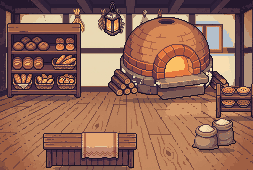
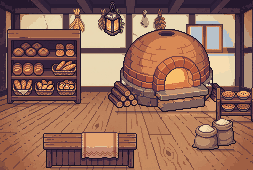
Painted village map, painted villagers, grounded bakery furniture
- The village map draws painted art when it has loaded: generated terrain
  traced from the game's own geometry (paths, pond, stream, yard, meadow;
  aligned within a pixel or two), with kit buildings (her home, post office,
  bakery, workshop, notice board, pie stall, dock) and nature pieces (apple
  and round trees, bushes, rocks, reeds, crates, barrel) placed where the
  drawn ones stand and depth-sorted so she walks behind them. Pieces are
  shrunk by whole factors only (no resampling blur).
- Her, Rosa, Bea, Mo, Mr. Pip and Tom are painted sprites on the map (hers in
  her avatar's colours, flipping and stepping as she walks); Dot too.
- The bridge planks, the meadow fence and her yard items stay drawn in code.
- The bakery's furniture stands on the floor with contact shadows.

Claude-Session: https://claude.ai/code/session_018EatS8EEd6jpQM1S16gyDn

diff --git a/village.js b/village.js
@@ -161,7 +161,33 @@
   // =====================================================================
   // the village map
   // =====================================================================
+  // the painted map: generated terrain (traced from the game's own paths, pond, stream and yard) and kit pieces placed
+  // where the drawn ones stand, depth-sorted so she walks behind them; the bridge planks and her yard stay in code
+  function buildPaintedMap(g, k, opt) {
+    const v = V(), open = !!v.open.meadow, I = n => ART['map-' + n];
+    g.drawImage(I('terrain'), 0, 0);
+    const piece = (n, cx, base, shade = true) => { const im = I(n); k.add(base, () => { if (shade) k.shadowEll(cx + 1, base, Math.max(3, Math.round(im.width * .4)), 2); k.g.drawImage(im, Math.round(cx - im.width / 2), base - im.height); }); };
+    piece('home', 246, 113); piece('post', 130, 103); piece('bakery', 140, 47); piece('workshop', 182, 79); piece('board', 187, 111); piece('stall', 274, 168); piece('dock', 121, 148, false);
+    // Rosa's orchard, then the village's other trees (every fifth one bears apples), bushes, rocks and reeds
+    [[24, 67], [48, 63], [72, 67], [34, 93], [58, 91]].forEach(([x, y], i) => piece(i % 2 ? 'tree-apple2' : 'tree-apple1', x, y));
+    const TREES = ['tree-round', 'tree-dark', 'tree-slim', 'tree-round', 'tree-dark'];
+    [[10, 22], [28, 16], [46, 26], [66, 18], [86, 24], [106, 16], [176, 24], [8, 108], [290, 100], [290, 140], [116, 206], [20, 206], [196, 204], [262, 206]].forEach(([x, y], i) => piece(i % 5 === 2 ? 'tree-apple2' : TREES[i % TREES.length], x, y + 1));
+    [[206, 128], [130, 190], [222, 196]].forEach(([x, y], i) => piece(i % 2 ? 'bush' : 'bush-flower', x, y));
+    [[270, 120], [40, 196], [110, 198]].forEach(([x, y], i) => piece(i ? 'rock' : 'boulder', x, y));
+    if (!open) [[212, 18], [236, 12], [270, 30], [284, 14], [258, 22]].forEach(([x, y], i) => piece(i % 2 ? 'rock' : 'boulder', x, y));
+    [[18, 142], [112, 178], [100, 122]].forEach(([x, y]) => piece('reeds', x, y, false));
+    piece('crate-red', 90, 114); piece('crate-yellow', 70, 108); piece('barrel', 130, 138); piece('crate-red', 118, 139);
+    // the bridge: one plank for each make-10 fact that is hers
+    const laid = Math.min(PLANKS, opt.planks === undefined ? v.planks : opt.planks);
+    k.add(66, () => { const x = 241, y = 50; k.R(x - 1, y + 1, 2, 18, C.k1); k.R(x + 14, y + 1, 2, 18, C.k1); k.R(x - 1, y + 1, 1, 18, C.k2); k.R(x + 14, y + 1, 1, 18, C.k2);
+      for (let j = 0; j < PLANKS; j++) { if (j >= laid) continue; const yy = y + 2 + j * 2; k.R(x + 1, yy, 13, 2, j % 2 ? C.k2 : C.k3); k.P(x + 1 + (j * 5) % 11, yy, C.k4); k.R(x + 1, yy + 1, 13, 1, C.k1); } }, false);
+    if (open) { const a = MEADOW, x0 = a.x - 4, y0 = a.y - 3, x1 = a.x + a.cols * 16 + 2, y1 = a.y + a.rows * 16 + 4; k.fence(x0, y0, x1, y0); k.fence(x0, y1, x1, y1); k.fence(x0, y0, x0, y1); k.fence(x1, y0, x1, y1); }
+    for (const p of v.placed) { if (p.area === 'meadow' && !open) continue; if (opt.skip && opt.skip.includes(p)) continue; const a = area(p.area), x = a.x + p.cx * 16, y = a.y + p.cy * 16; k.add(y + 15, () => px.drawItem(k, p.item, x, y, p.paint)); }
+    const pts = []; for (let i = 0; i < 70; i++) { const an = px.hash(i, 5, 61) * Math.PI * 2, r = Math.sqrt(px.hash(i, 6, 62)) * .8; const x = Math.round(POND[0] + Math.cos(an) * POND[2] * r), y = Math.round(POND[1] + Math.sin(an) * POND[3] * r); if (!inRect(x, y, [DOCK[0] - 2, DOCK[1] - 2, DOCK[2] + 4, DOCK[3] + 10])) pts.push([x, y]); }
+    return pts;
+  }
   function buildMapStill(g, k, opt = {}) {
+    if (mapArtReady) return buildPaintedMap(g, k, opt);
     const v = V(), open = !!v.open.meadow;
     const water = (x, y) => px.inEll(x, y, ...POND) || inStream(x, y);
     const path = (x, y) => PATHS.some(r => { const n = px.hash(x >> 1, y >> 1, 3) < .35 ? 1 : 0; return inRect(x, y, [r[0] - n, r[1] - n, r[2] + 2 * n, r[3] + 2 * n]); });
@@ -245,7 +271,7 @@
     const sel = B.sel && placedAt(B.sel);
     ui.primaryJob = undefined;
     $root.innerHTML = `<main class="village full ${build ? 'building' : ''} ${ui.story ? 'story' : ''}">
-      <div class="vstage" id="vstage"><canvas id="vcanvas"></canvas><div class="vhaze"></div>
+      <div class="vstage" id="vstage"><canvas id="vcanvas"></canvas><div class="vhaze ${mapArtReady ? 'off' : ''}"></div>
         <div class="vbubble" id="vbubble"></div>
         <div class="vmark" id="vmark">!</div>
       </div>
@@ -255,7 +281,7 @@
       <div class="vfade" id="vfade"></div>
     </main>`;
     fit();
-    if (!scene || scene.kind !== 'map' || ui.rebuildMap) { scene = makeScene('map', (g, k) => buildMapStill(g, k, { planks: v.planks, skip: ui.popping ? ui.popping.map(p => p.p) : [] })); ui.rebuildMap = false; addGlows(scene, [[240, 99, 7, 'rgba(255,180,90,.22)'], [259, 99, 7, 'rgba(255,180,90,.22)']]); }
+    if (!scene || scene.kind !== 'map' || ui.rebuildMap) { scene = makeScene('map', (g, k) => buildMapStill(g, k, { planks: v.planks, skip: ui.popping ? ui.popping.map(p => p.p) : [] })); scene.painted = mapArtReady; ui.rebuildMap = false; addGlows(scene, [[240, 99, 7, 'rgba(255,180,90,.22)'], [259, 99, 7, 'rgba(255,180,90,.22)']]); }
     scene.after = mapOverlays;
     hookMapInput();
     startLoop(drawMap);
@@ -340,6 +366,15 @@
     const items = [];
     const walking = her.path.length > 0, wf = walking ? [0, 1, 0, 3][Math.floor(her.walkT / .11) % 4] : 0;
     const hop = her.hop > t ? Math.round(Math.sin((her.hop - t) / 400 * Math.PI) * 4) : 0;
+    if (mapArtReady) {
+      const c = sc.frame.getContext('2d'), P = (im, cx, base, flip, bob) => { const x = Math.round(cx - im.width / 2), y = Math.round(base - im.height - bob);
+        if (flip) { c.save(); c.translate(x + im.width, y); c.scale(-1, 1); c.drawImage(im, 0, 0); c.restore(); } else c.drawImage(im, x, y); };
+      const step = walking ? Math.floor(her.walkT / .14) % 2 : 0, m = mission() || {}, wave = (period, off, on) => on && ((t + off) % period) < 1100 ? Math.floor(t / 180) % 2 : 0;
+      items.push({ y: her.y, box: [Math.round(her.x) - 2, Math.round(her.y) - 20, 13, 21], draw: () => { k.shadowEll(Math.round(her.x) + 4, Math.round(her.y), 5, 1); P(herArt('map-her'), Math.round(her.x) + 4, Math.round(her.y) + 1, her.flip, step + hop); } });
+      const npc = (n, [x, y], on, off) => items.push({ y, box: [x - 3, y - 20, 15, 21], draw: () => { k.shadowEll(x + 4, y, 5, 1); P(ART['map-' + n], x + 4, y + 1, false, wave(5600, off, on)); } });
+      npc('rosa', ROSA, m.text === 'Help Rosa pick apples', 0); npc('bea', BEA, m.job === 'bakery', 3300); npc('mo', MO, m.job === 'post', 2600); npc('pip', PIP, m.job === 'market', 1700);
+      if (placeOpen('workshop')) npc('tom', TOM, m.job === 'workshop', 2100);
+    } else {
     items.push({ y: her.y, box: [Math.round(her.x) - 1, Math.round(her.y) - 20, 11, 21], draw: () => { k.shadowEll(Math.round(her.x) + 4, Math.round(her.y), 4, 1); k.drawPerson(Math.round(her.x), Math.round(her.y), look(), { walk: wf, flip: her.flip, blink: !walking && (t % 3600) < 120, bob: hop, wave: her.wave > t }); } });
     // Rosa by her orchard, in her straw hat; she waves when helping her is the next job
     items.push({ y: ROSA[1], box: [ROSA[0] - 2, ROSA[1] - 19, 13, 20], draw: () => { const [x, y] = ROSA; k.shadowEll(x + 4, y, 4, 1); k.drawPerson(x, y, ROSA_LOOK, { blink: (t % 3900) < 120, wave: (t % 5200) < 1100 && (mission() || {}).text === 'Help Rosa pick apples' });
@@ -352,6 +387,7 @@
       k.R(x + 1, y - 16, 7, 2, '#6a5a4a'); k.R(x, y - 14, 9, 1, '#4a3e34'); k.R(x + 2, y - 9, 5, 2, '#9a5a2a'); } });
     items.push({ y: PIP[1], box: [PIP[0] - 2, PIP[1] - 17, 13, 18], draw: () => { const [x, y] = PIP; k.shadowEll(x + 4, y, 4, 1); k.drawPerson(x, y, PIP_LOOK, { flip: true, blink: ((t + 1700) % 4300) < 120, wave: (t % 5600) < 1100 && (mission() || {}).job === 'market' });
       k.R(x + 2, y - 10, 5, 2, '#e8e8f0'); k.P(x + 4, y - 8, '#e8e8f0'); } });
+    }
     // things she just built pop in
     (ui.popping || []).forEach(pp => { const a = Math.min(1, (t - pp.t0) / 380), s = a < .7 ? a / .7 * 1.15 : 1.15 - (a - .7) / .3 * .15, ar = area(pp.p.area), x = ar.x + pp.p.cx * 16, y = ar.y + pp.p.cy * 16;
       items.push({ y: y + 15, draw: () => { const c = pp.c || (pp.c = itemCanvas(pp.p.item, pp.p.paint)); const w = Math.max(1, Math.round(16 * s)); sc.frame.getContext('2d').drawImage(c, Math.round(x + 8 - w / 2), Math.round(y + 16 - w), w, w); } }); });
@@ -362,7 +398,7 @@
     // build mode: the spots
     if (mode === 'build') for (const id of ['plot', 'meadow']) { if (id === 'meadow' && !V().open.meadow) continue; const a = area(id); for (let cy = 0; cy < a.rows; cy++) for (let cx = 0; cx < a.cols; cx++) { const x = a.x + cx * 16, y = a.y + cy * 16, sel = B.sel && B.sel.area === id && B.sel.cx === cx && B.sel.cy === cy, col = sel ? '#ffe066' : 'rgba(255,255,255,.55)'; for (let i = 0; i < 16; i += 2) { k.R(x + i, y, 1, 1, col); k.R(x + i, y + 15, 1, 1, col); k.R(x, y + i, 1, 1, col); k.R(x + 15, y + i, 1, 1, col); } if (sel) { k.R(x, y, 16, 1, col); k.R(x, y + 15, 16, 1, col); k.R(x, y, 1, 16, col); k.R(x + 15, y, 1, 16, col); } } }
     if (B.drag && B.drag.at) px.drawItem(k, B.drag.p.item, Math.round(B.drag.at[0] - 8), Math.round(B.drag.at[1] - 12), B.drag.p.paint);
-    k.drawDot(Math.round(dot.x), Math.round(dot.y) + dy, t, blinkDot);
+    if (mapArtReady) { const im = ART['map-dot']; sc.frame.getContext('2d').drawImage(im, Math.round(dot.x - im.width / 2), Math.round(dot.y) + dy - Math.round(im.height / 2)); } else k.drawDot(Math.round(dot.x), Math.round(dot.y) + dy, t, blinkDot);
     clouds(k, t);
   }
   let backdropKey = '', backdropUrl = '';
@@ -770,16 +806,22 @@
   // ---------- painted art (exploration): generated with Weave from a style swatch, cleaned onto the scene's pixel grid,
   // and laid out here in code. The orchard uses it when it has loaded; until then (or offline without it) the drawn
   // orchard stays. See vault notes: base plate + kit, composed, then her, Rosa, the basket and apples as sprites.
-  const ART = {}; let artReady = false;
+  const ART = {}; let artReady = false, mapArtReady = false;
+  (function loadMapArt() {
+    const names = ['terrain', 'home', 'post', 'bakery', 'workshop', 'board', 'stall', 'dock', 'tree-apple1', 'tree-apple2', 'tree-round', 'tree-dark', 'tree-slim', 'bush-flower', 'bush', 'boulder', 'rock', 'reeds', 'crate-red', 'crate-yellow', 'barrel', 'mo', 'pip', 'tom', 'her', 'rosa', 'bea', 'dot'];
+    let left = names.length;
+    names.forEach(n => { const im = new Image(); im.onload = () => { ART['map-' + n] = im; if (--left === 0) { mapArtReady = true; if (scene && scene.kind === 'map') { scene.painted = true; scene.rebake(); const hz = document.querySelector('.vhaze'); if (hz) hz.className = 'vhaze off'; } } }; im.src = `art/map-${n}.png?v=1`; });
+  })();
   (function loadArt() {
     const names = ['orchard-scene', 'her', 'rosa', 'basket', 'apple-red', 'apple-yellow', 'bakery-scene', 'bea', 'tray', 'bun', 'dot-1', 'dot-2', 'dot-3', 'dot-4', 'dot-5', 'dot-6']; let left = names.length;
     names.forEach(n => { const im = new Image(); im.onload = () => { ART[n] = im; if (--left === 0) { artReady = true; if (scene && scene.kind === 'job' && paintedJob()) { scene.painted = true; scene.rebake(); const hz = document.querySelector('.vhaze'); if (hz) hz.className = 'vhaze off'; } } }; im.src = `art/${n}.png?v=1`; });
   })();
   const paintedJob = () => !!(O && O.J.art && artReady);
   // her painted sprite in her own avatar's colours: the hair and shirt pixels take her colours, keeping their shading
-  function herArt() {
-    const l = look(), key = `${l.hair}|${l.shirt}`; if (herArt.key === key) return herArt.c;
-    const im = ART.her, c = document.createElement('canvas'); c.width = im.width; c.height = im.height; const g = c.getContext('2d'); g.drawImage(im, 0, 0);
+  const herCache = {};
+  function herArt(src = 'her') {
+    const l = look(), key = `${src}|${l.hair}|${l.shirt}`; if (herCache[key]) return herCache[key];
+    const im = ART[src], c = document.createElement('canvas'); c.width = im.width; c.height = im.height; const g = c.getContext('2d'); g.drawImage(im, 0, 0);
     const d = g.getImageData(0, 0, c.width, c.height), p = d.data, hex = h => [1, 3, 5].map(i => parseInt(h.slice(i, i + 2), 16));
     const toRGB = s => s.startsWith('#') ? hex(s) : s.match(/\d+/g).map(Number);
     const hair = toRGB(l.hair), shirt = toRGB(l.shirt), lum = (r, g2, b) => 0.2126 * r + 0.7152 * g2 + 0.0722 * b;
@@ -791,7 +833,7 @@
     for (let i = 0; i < p.length; i += 4) { if (p[i + 3] < 128) continue; const k = cls(p[i], p[i + 1], p[i + 2]); if (!k) continue;
       const t = k === 'shirt' ? shirt : hair, f = Math.min(1.6, lum(p[i], p[i + 1], p[i + 2]) / ref[k]);
       p[i] = Math.min(255, t[0] * f); p[i + 1] = Math.min(255, t[1] * f); p[i + 2] = Math.min(255, t[2] * f); }
-    g.putImageData(d, 0, 0); herArt.key = key; herArt.c = c; return c;
+    g.putImageData(d, 0, 0); herCache[key] = c; return c;
   }
   // a basket of n apples: the first four sit inside the rim, the rest heap up out of it (relative to the basket's top-left)
   const BASKET_SPOTS = [[3, 4], [8, 4], [13, 4], [17, 4], [5, 1], [10, 0], [15, 1], [7, -2], [12, -3], [10, -5]];

diff --git a/sw.js b/sw.js
@@ -2,7 +2,8 @@
 const VERSION = 'ellie-math-v25';
 const JS = ['engine', 'content', 'voice', 'audio', 'manip', 'theme', 'world', 'avatar', 'pixel', 'village', 'teach', 'parent', 'scratch', 'app'].map(n => `./${n}.js?v=25`);
 const ART = ['orchard-scene', 'her', 'rosa', 'basket', 'apple-red', 'apple-yellow', 'bakery-scene', 'bea', 'tray', 'bun', 'dot-1', 'dot-2', 'dot-3', 'dot-4', 'dot-5', 'dot-6'].map(n => `./art/${n}.png?v=1`);
-const FILES = ['./', './index.html', ...JS, ...ART, './fonts/fredoka-latin-500-normal.woff2', './fonts/fredoka-latin-600-normal.woff2', './fonts/fredoka-latin-700-normal.woff2', './manifest.webmanifest', './icon-180.png', './icon-192.png', './icon-512.png', './icon-maskable-512.png', ...['garden', 'ocean', 'space', 'classroom'].map(w => `./icon-${w}-180.png`)];
+const MAP = ['terrain', 'home', 'post', 'bakery', 'workshop', 'board', 'stall', 'dock', 'tree-apple1', 'tree-apple2', 'tree-round', 'tree-dark', 'tree-slim', 'bush-flower', 'bush', 'boulder', 'rock', 'reeds', 'crate-red', 'crate-yellow', 'barrel', 'mo', 'pip', 'tom', 'her', 'rosa', 'bea', 'dot'].map(n => `./art/map-${n}.png?v=1`);
+const FILES = ['./', './index.html', ...JS, ...ART, ...MAP, './fonts/fredoka-latin-500-normal.woff2', './fonts/fredoka-latin-600-normal.woff2', './fonts/fredoka-latin-700-normal.woff2', './manifest.webmanifest', './icon-180.png', './icon-192.png', './icon-512.png', './icon-maskable-512.png', ...['garden', 'ocean', 'space', 'classroom'].map(w => `./icon-${w}-180.png`)];
 self.addEventListener('install', e => { e.waitUntil(caches.open(VERSION).then(c => c.addAll(FILES)).then(() => self.skipWaiting())); });
 // Dot's recorded voice (~30 MB) lives in its own cache so an app update doesn't download it again; audio.js prunes old packs.
 const VOICE_CACHE = 'ellie-voice';
